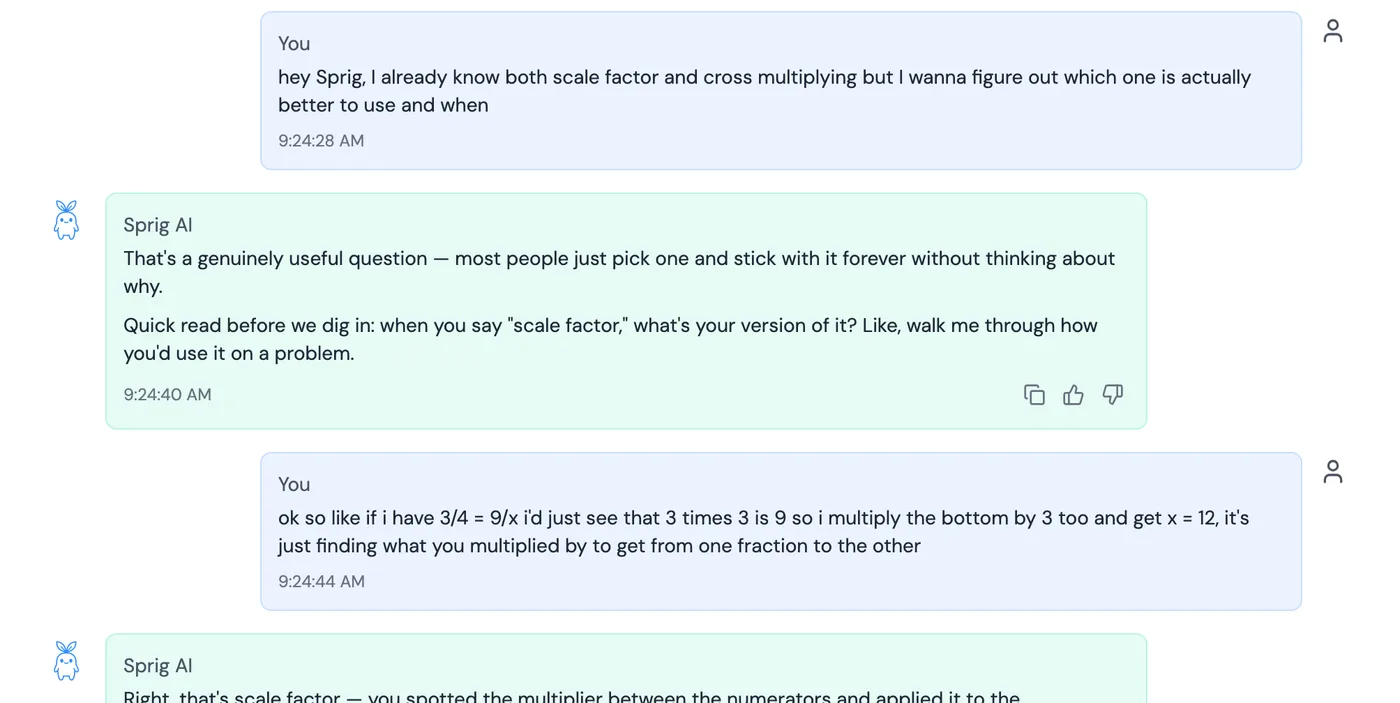
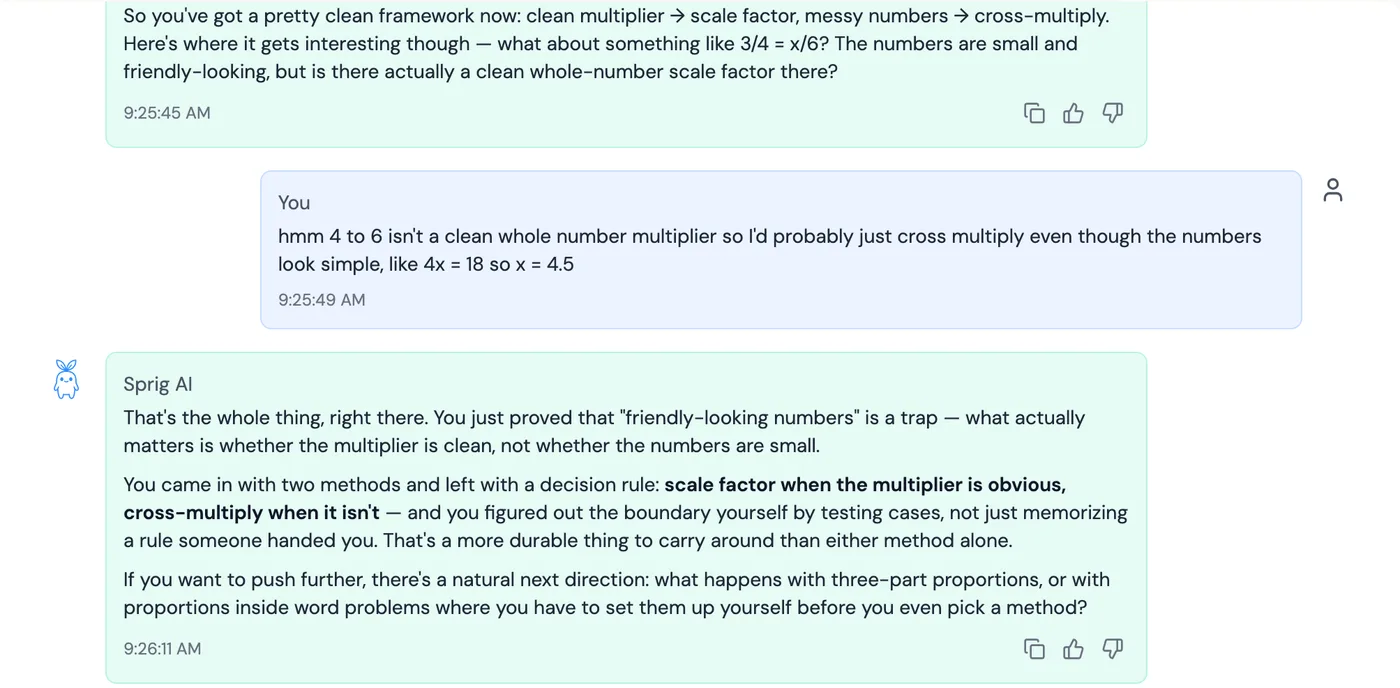
feat(home): use re-shot frames; shorten the showcase disclosure
- Priya: frame now shows the 3/4 = x/6 turn where Priya finds the rule
- Coding: 900px re-shoot, readable at desktop width; the new exchange
  has the student explain count vs count()
- Signal & Noise: includes the fixed ranking chips (RISK-0420 deployed)
- Disclosure: "Synthetic students, real Sprig responses: these examples
  show the real experience without exposing any child's data."

diff --git a/src/data/productScreens.ts b/src/data/productScreens.ts
@@ -35,8 +35,8 @@ const screen = (
 
 export const screens = {
   studentPriya: screen(
-    'student-priya', 1400, 703, 'Student · Q&A with Sprig',
-    "Priya asks Sprig whether scale factor or cross multiplying is better, and when. Before answering, Sprig asks Priya to walk through how they'd use scale factor on a problem, and Priya explains it with their own example.",
+    'student-priya', 1400, 688, 'Student · Q&A with Sprig',
+    "Sprig asks Priya whether 3/4 = x/6 has a clean whole-number scale factor. Priya says 4 to 6 isn't a clean multiplier, so they'd cross multiply and get x = 4.5. Sprig names the decision rule Priya worked out: scale factor when the multiplier is obvious, cross-multiply when it isn't.",
     {
       kind: 'records',
       items: [
@@ -48,8 +48,8 @@ export const screens = {
     },
   ),
   studentSignalNoise: screen(
-    'student-signal-noise', 1340, 1174, 'Student · Signal & Noise',
-    "Sprig's coaching after a student ranks two persuasive-letter sources in the Signal & Noise game, in four parts: Your Frame, What You Caught & What You Let Through, The Thread, and Your Next Edge.",
+    'student-signal-noise', 1340, 1327, 'Student · Signal & Noise',
+    "Sprig's coaching after a student ranks two persuasive-letter sources in the Signal & Noise game, in four parts: Your Frame, What You Caught & What You Let Through, The Thread, and Your Next Edge. The student's ranking and rationale follow below.",
     {
       kind: 'records',
       items: [
@@ -61,8 +61,8 @@ export const screens = {
     },
   ),
   studentCoding: screen(
-    'student-coding', 1400, 285, 'Student · Coding with Sprig',
-    "A student asks Sprig why their program prints a method object instead of a count. Sprig explains what the message is telling them and asks whether they left the parentheses off .count(), then asks which line needs the fix.",
+    'student-coding', 1400, 508, 'Student · Coding with Sprig',
+    "A student asks Sprig why their program prints a method object instead of a count. Sprig explains what the message is telling them and asks whether they left the parentheses off .count(). When the student realizes they did, Sprig asks them to explain the difference between count and count().",
     {
       kind: 'records',
       items: [
@@ -124,4 +124,4 @@ export const screens = {
 } satisfies Record<string, Screen>;
 
 export const SHOWCASE_DISCLOSURE =
-  "Real Mentra screens from a fictional showcase class, with every Sprig reply generated live by the product. Students are simulated: a model replied to what Sprig actually said (investigation work was written in advance). Conversations were run up to three times per student, and we show ones that passed our own coaching review. No real child appears.";
+  'Synthetic students, real Sprig responses: these examples show the real experience without exposing any child\'s data.';

diff --git a/src/components/sections/ProductStory.tsx b/src/components/sections/ProductStory.tsx
@@ -28,7 +28,7 @@ const steps: Step[] = [
   {
     eyebrow: 'Coding',
     title: 'Reads the error message with them.',
-    text: "A student's program prints something strange. Sprig explains what the message is telling them, asks a question that leads them to the missing parentheses, then checks they know which line to change.",
+    text: "A student's program prints something strange. Sprig explains what the message is telling them, asks a question that leads them to the missing parentheses, then has them explain why the parentheses matter.",
     screen: screens.studentCoding,
   },
   {
